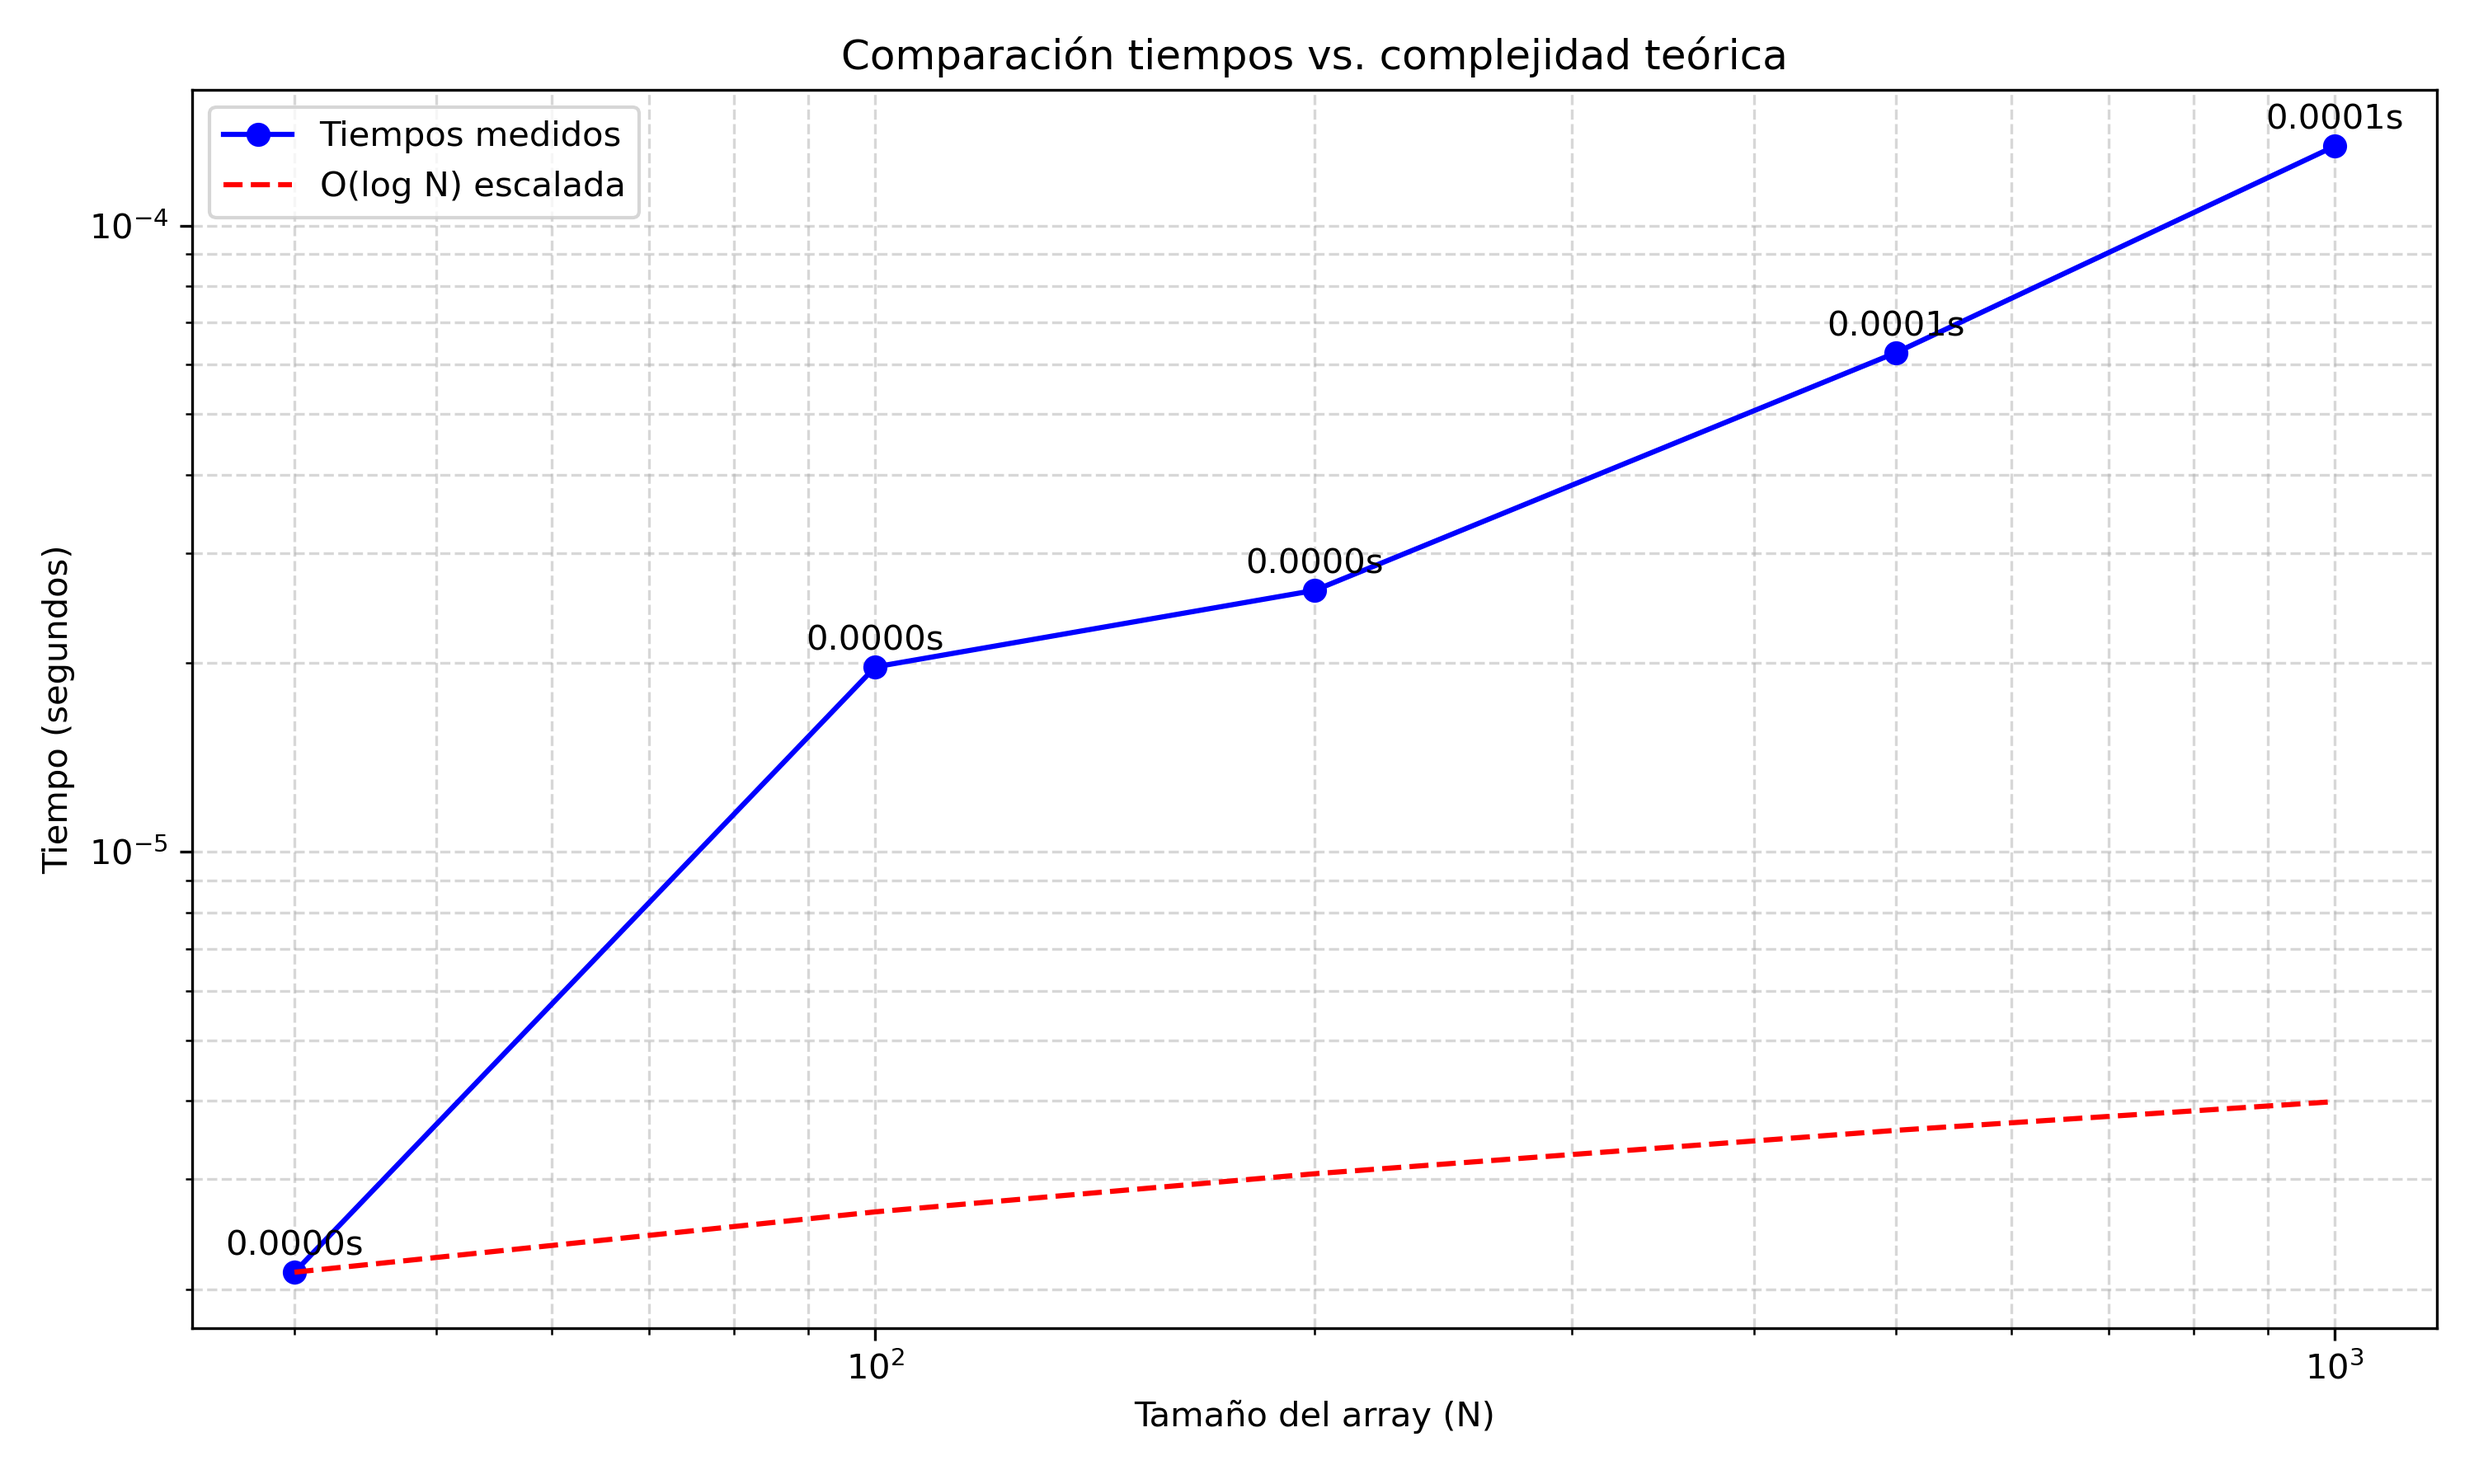
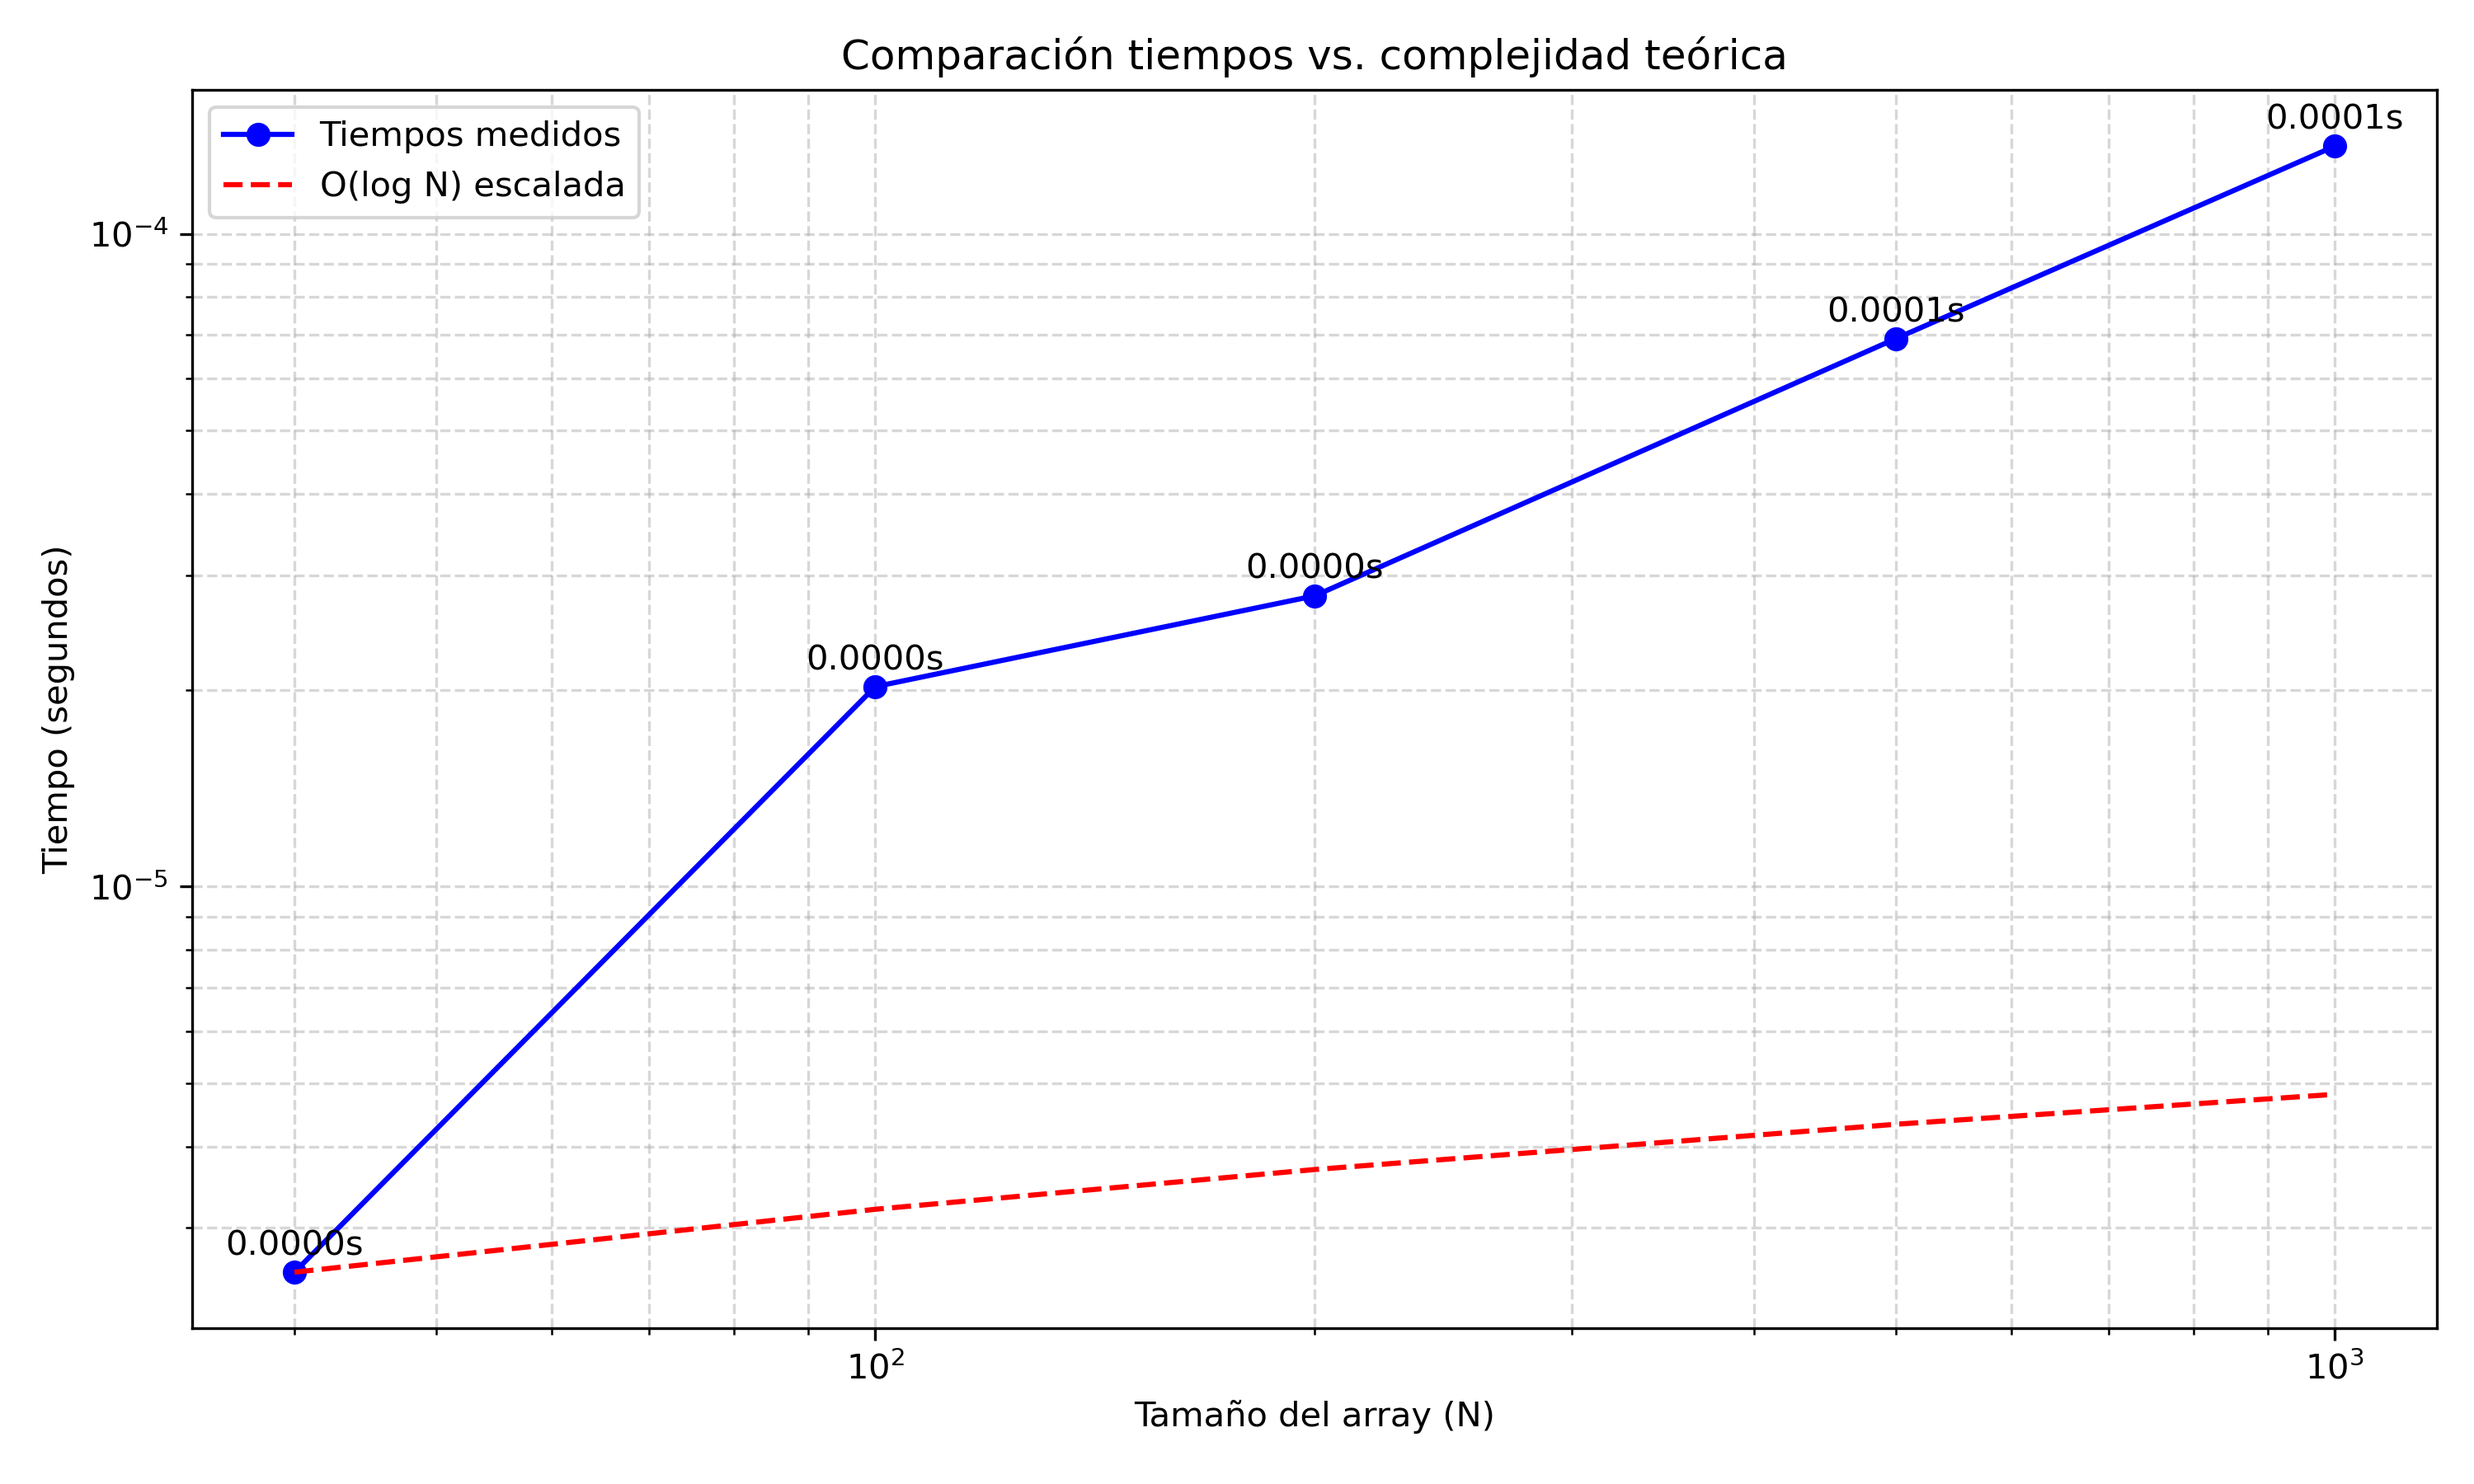
readme problema1

diff --git a/problema1/src/problema1.py b/problema1/src/problema1.py
@@ -55,4 +55,4 @@ if __name__ == "__main__":
     escribir_resultados_set(resultados, output_path)
 
     
-    print("Procesamiento completado. Revisar el archivo de resultados.")
+    print("Procesamiento completado. Revisar el archivo de resultados en /pruebas.")

diff --git a/problema1/README.md b/problema1/README.md
@@ -1,0 +1,9 @@
+#Ejecución
+El programa se ejecuta desde la terminal con el siguiente comando:
+```bash
+python3 problema1/src/problema1.py
+```
+La solucion planteada utiliza el set de datos generado ('/pruebas/set_de_datos.txt') para procesarlo y escribe los resultados de dicho procesamiento en '/pruebas/resultados_set_de_Datos.txt'
+
+#Requisitos 
+- Python 3.12.3
